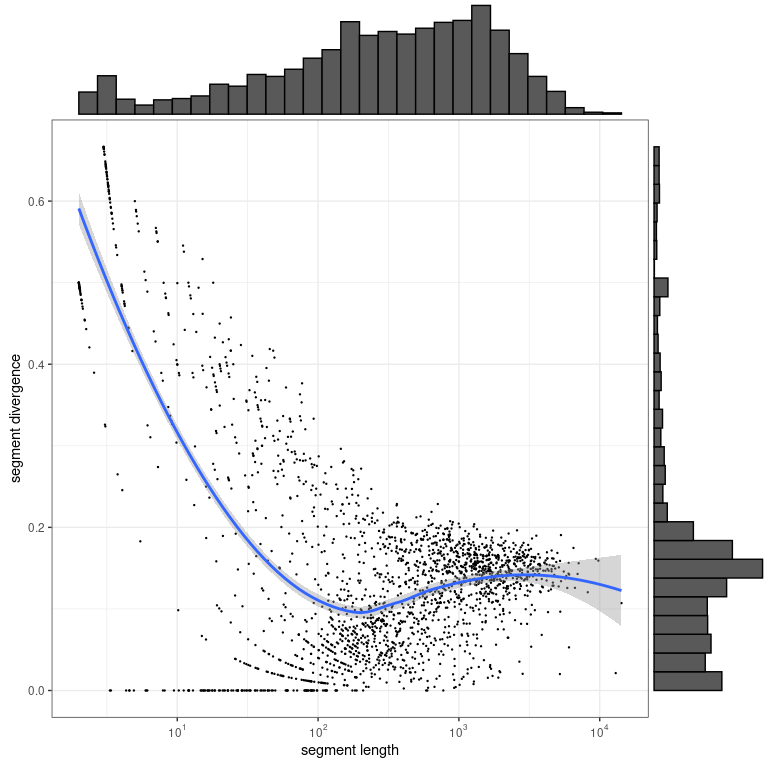
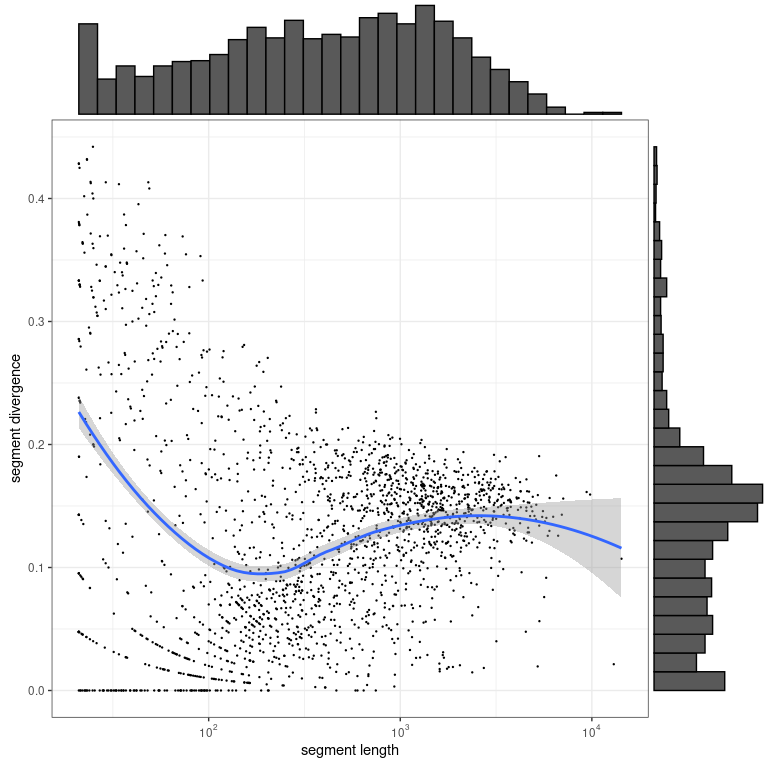
fix2

diff --git a/README.md b/README.md
@@ -65,7 +65,7 @@ library(stringi)
 To set parameters
 
 ``` r
-Kmin <- 10
+Kmin <- 20
 ```
 
 To generate example of genome of length `L` with vector of mutation
@@ -182,7 +182,7 @@ for (i in order(-nchar(alignment)))
   L <- nchar(alignment[[i]])
   rtemp <- r[[i]][,1]
   muts <- sort(rtemp + sample(0:0,length(rtemp),replace=TRUE))
-  breaks <- sort(getNumberBreaksChiSquare(muts,L=L,Kmin=1))
+  breaks <- sort(getNumberBreaksChiSquare(muts,L=L,Kmin=Kmin))
   breaks0L <- c(0,breaks,L)
   for (j in 1:(length(breaks0L)-1))
   {
@@ -192,7 +192,7 @@ for (i in order(-nchar(alignment)))
 }
 end_time <- Sys.time()
 print(end_time - start_time)
-#> Time difference of 7.592661 mins
+#> Time difference of 6.638279 mins
 ```
 
 Plotting divergences and lengths of the segments:
